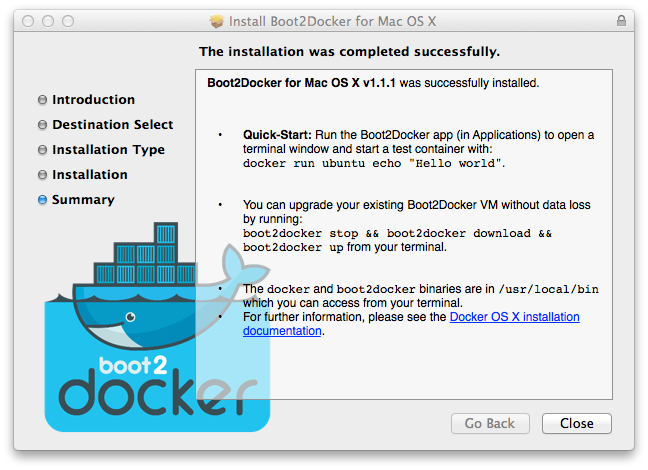
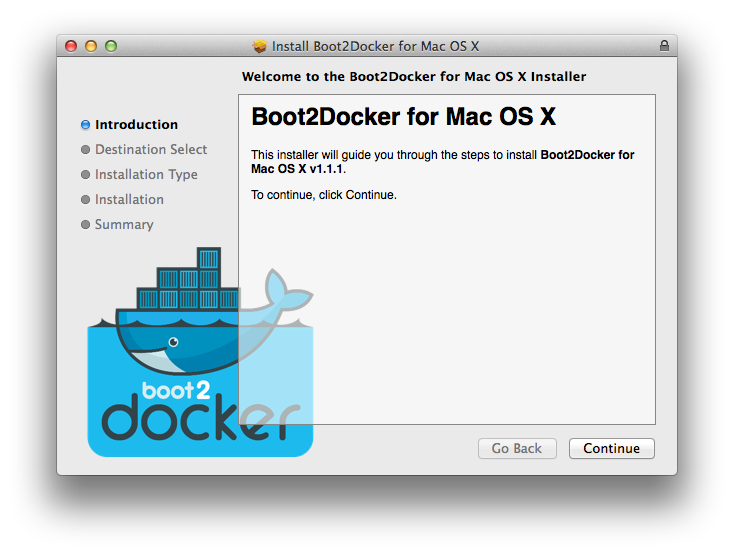
Initial revisions to b2d doc, new screenshots.
Docker-DCO-1.1-Signed-off-by: Fred Lifton <fred.lifton@docker.com> (github: fredlf)

Final revisions to B2D doc.

Docker-DCO-1.1-Signed-off-by: Fred Lifton <fred.lifton@docker.com> (github: fredlf)

diff --git a/github/docker/master/docs/sources/installation/mac.md b/github/docker/master/docs/sources/installation/mac.md
@@ -7,13 +7,13 @@ page_keywords: Docker, Docker documentation, requirements, boot2docker, VirtualB
 > **Note:**
 > Docker is supported on Mac OS X 10.6 "Snow Leopard" or newer.
 
-The Docker Engine uses Linux-specific kernel features, so to run it on OS X
-we need to use a lightweight virtual machine (vm).  You use the OS X Docker client to
+Because the Docker Engine uses Linux-specific kernel features, you'll need to use a
+lightweight virtual machine (VM) to run it on OS X. You use the OS X Docker client to
 control the virtualized Docker Engine to build, run, and manage Docker containers.
 
-To make this process easier, we've designed a helper application called
-[Boot2Docker](https://github.com/boot2docker/boot2docker) that installs the
-virtual machine and runs the Docker daemon.
+To make this process easier, we've built a helper application called
+[Boot2Docker](https://github.com/boot2docker/boot2docker) that installs a
+virtual machine (using VirtualBox) that's all set up to run the Docker daemon.
 
 ## Demonstration
 
@@ -22,50 +22,67 @@ virtual machine and runs the Docker daemon.
 ## Installation
 
 1. Download the latest release of the [Docker for OS X Installer](
-   https://github.com/boot2docker/osx-installer/releases)
+   https://github.com/boot2docker/osx-installer/releases) (Look for the green
+   Boot2Docker-x.x.x.pkg button near the bottom of the page.)
 
-2. Run the installer, which will install VirtualBox and the Boot2Docker management
-   tool.
+2. Run the installer by double-clicking the downloaded package, which will install a
+VirtualBox VM, Docker itself, and the Boot2Docker management tool.
    ![](/installation/images/osx-installer.png)
 
-3. Run the `Boot2Docker` app in the `Applications` folder:
-   ![](/installation/images/osx-Boot2Docker-Start-app.png)
-
-   Or, to initialize Boot2Docker manually, open a terminal and run:
+3. Locate the `Boot2Docker` app in your `Applications` folder and run it.
+   Or, you can initialize Boot2Docker from the command line by running:
 
 	     $ boot2docker init
 	     $ boot2docker start
 	     $ export DOCKER_HOST=tcp://$(boot2docker ip 2>/dev/null):2375
 
+A terminal window will open and you'll see the virtual machine starting up. 
 Once you have an initialized virtual machine, you can control it with `boot2docker stop`
 and `boot2docker start`.
+
+> **Note:**
+> If you see a message in the terminal that looks something like this:
+>
+>    `To connect the Docker client to the Docker daemon, please set: export 
+DOCKER_HOST=tcp://192.168.59.103:2375`
+> 
+you can safely set the evironment variable as instructed.
+
+View the
+[Boot2Docker ReadMe](https://github.com/boot2docker/boot2docker/blob/master/README.md)
+for more information.
 
 ## Upgrading
 
 1. Download the latest release of the [Docker for OS X Installer](
    https://github.com/boot2docker/osx-installer/releases)
 
-2. Run the installer, which will update VirtualBox and the Boot2Docker management
-   tool.
+2. If Boot2Docker is currently running, stop it with `boot2docker stop`. Then, run
+the installer package, which will update Docker and the Boot2Docker management tool.
 
-3. To upgrade your existing virtual machine, open a terminal and run:
+3. To complete the upgrade, you also need to update your existing virtual machine. Open a
+terminal window and run:
 
         $ boot2docker stop
         $ boot2docker download
         $ boot2docker start
 
+This will download an .iso containing a fresh VM and start it up.
+
 ## Running Docker
 
-From your terminal, you can test that Docker is running with the small `hello-world` example image.
-Start the vm and then run:
+From your terminal, you can test that Docker is running with our small `hello-world`
+example image:
+Start the vm (`boot2docker start`) and then run:
 
     $ docker run hello-world
 
-This should download the very small `hello-world` image and print a `Hello from Docker.` message.
+This should download the `hello-world` image, which then creates a small
+container with an executable that prints a brief `Hello from Docker.` message.
 
 ## Container port redirection
 
-The latest version of `boot2docker` sets up a host only network adaptor which provides
+The latest version of `boot2docker` sets up a host-only network adaptor which provides
 access to the container's ports.
 
 If you run a container with an exposed port,
@@ -76,14 +93,16 @@ then you should be able to access that Nginx server using the IP address reporte
 
     $ boot2docker ip
 
-Typically, it is 192.168.59.103, but it could get changed by Virtualbox's DHCP
-implementation.
+Typically, it is 192.168.59.103:2375, but VirtualBox's DHCP implementation might change
+this address in the future.
 
 # Further details
 
-If you are curious, the username for the boot2docker default user is `docker` and the password is `tcuser`.
+If you are curious, the username for the boot2docker default user is `docker` and the
+password is `tcuser`.
 
-The Boot2Docker management tool provides several commands:
+The Boot2Docker management tool provides several additional commands for working with the
+VM and Docker:
 
     $ ./boot2docker
     Usage: ./boot2docker [<options>]
